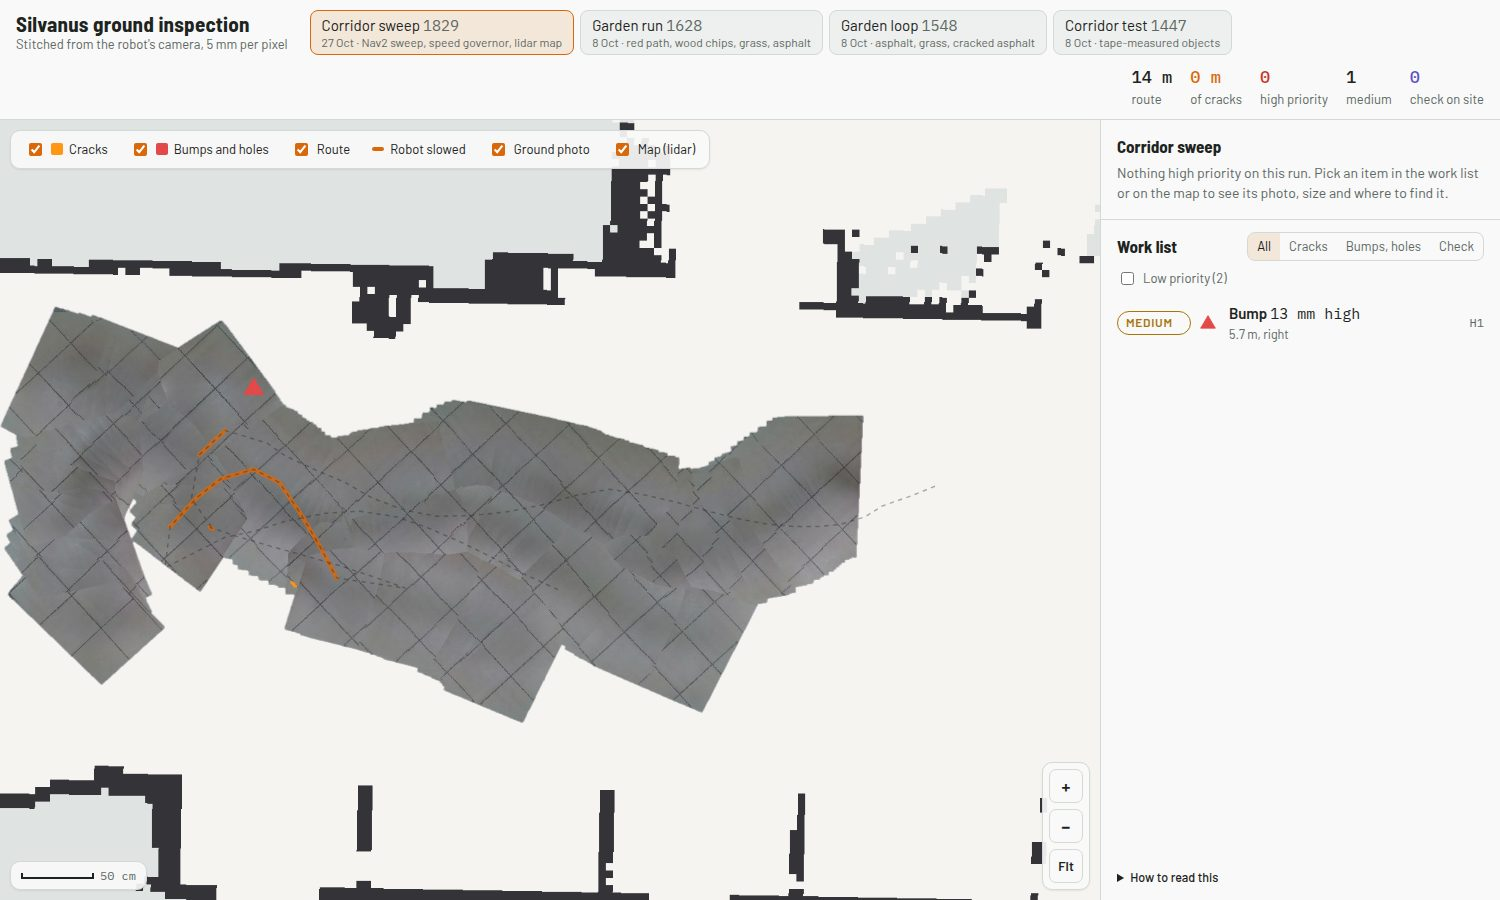
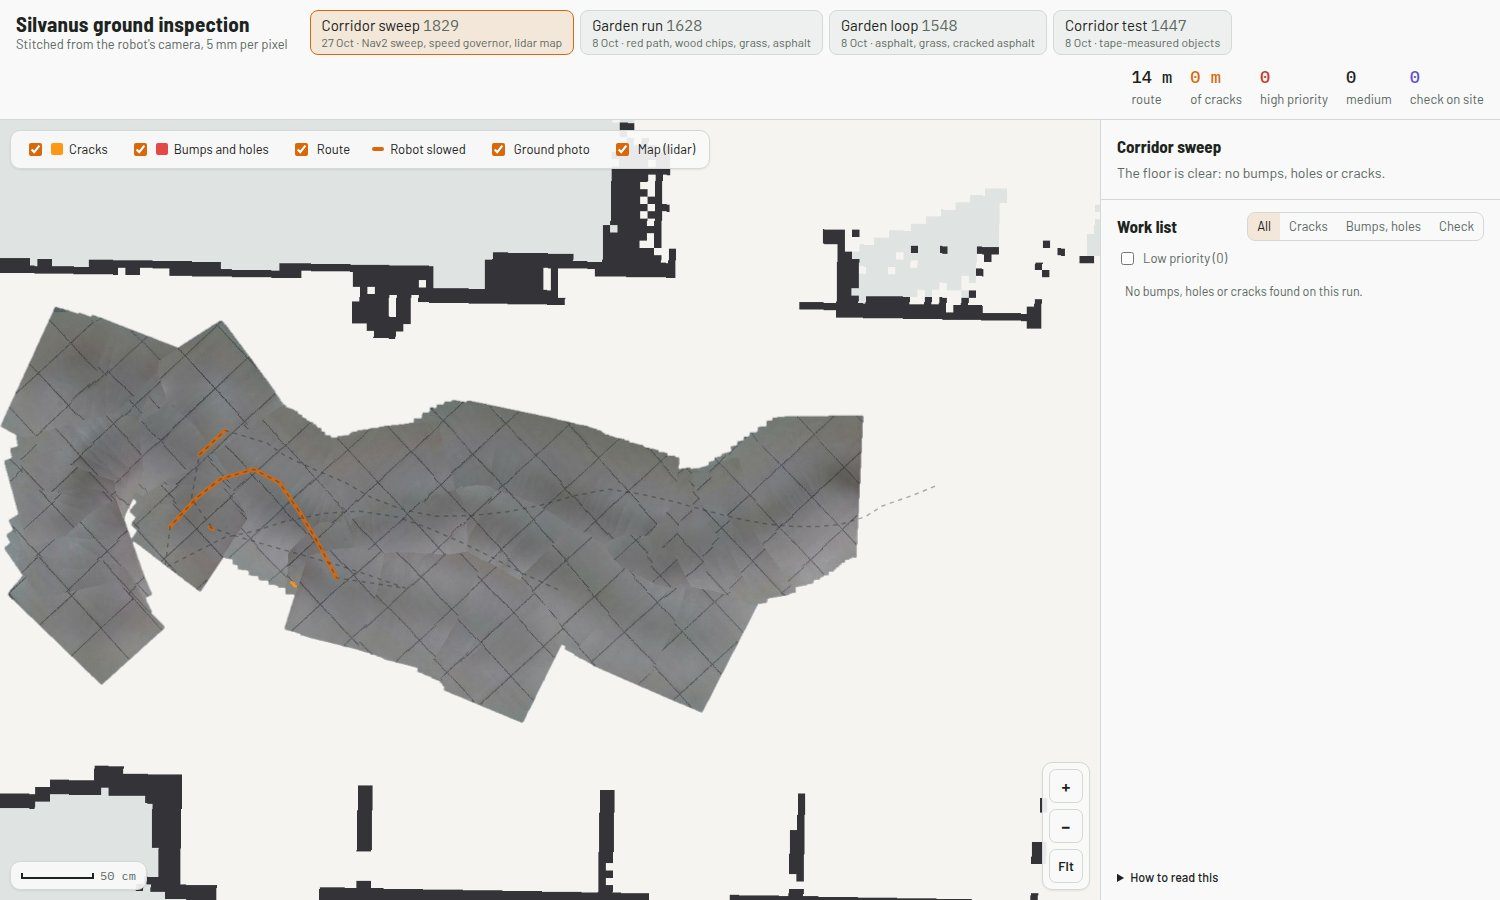
Count depth hazards only where the colour camera sees them
The outer band of the depth image reads a flat floor 5-12 mm high. On the
corridor sweep that gave three false 10-13 mm bumps on plain tile, and the
speed governor slowed for them six times. The live node and the offline map
now keep a hazard only inside the colour view, which still covers the wheel
tracks, so every hazard has a photo. The sweep page now lists nothing.

Changed region(s): [[0.736, 0.1867, 0.9813, 0.3733], [0.1533, 0.4044, 0.184, 0.4356]]

diff --git a/tools/inspection_viewer/index.html b/tools/inspection_viewer/index.html
@@ -386,7 +386,8 @@ function renderList() {
       <svg class="glyph" viewBox="-11 -11 22 22" aria-hidden="true">${glyph(h)}</svg>
       <span class="what"><b>${title(h)}</b> <span class="num">${size(h)}</span><span class="loc">${h.route_m} m${h.side === "on the path" ? ", wheel track" : `, ${h.side}`}${h.surface ? " · " + h.surface : ""}</span></span>
       <span class="id">${h.id}</span></button></li>`).join("")
-    : `<li class="more">Nothing in this view. Switch on low priority to see the small ones.</li>`;
+    : D.hazards.length ? `<li class="more">Nothing in this view. Switch on low priority to see the small ones.</li>`
+    : `<li class="more">No bumps, holes or cracks found on this run.</li>`;
   $("#list").querySelectorAll(".row").forEach(b => b.onclick = () => select(b.dataset.id, true));
 }
 function renderDetail() {
@@ -394,8 +395,9 @@ function renderDetail() {
   if (!h) {
     const top = D.hazards.filter(x => x.priority === "high").length;
     $("#detail").innerHTML = `<div class="empty"><b>${RUNS.find(r => r.id === run).name}</b>
-      ${top ? `${top} high-priority item${top > 1 ? "s" : ""} on this run.` : "Nothing high priority on this run."}
-      Pick an item in the work list or on the map to see its photo, size and where to find it.</div>`;
+      ${!D.hazards.length ? "The floor is clear: no bumps, holes or cracks."
+        : `${top ? `${top} high-priority item${top > 1 ? "s" : ""} on this run.` : "Nothing high priority on this run."}
+      Pick an item in the work list or on the map to see its photo, size and where to find it.`}</div>`;
     return;
   }
   const photo = h.crop ? `<img src="runs/${run}/${h.crop}${D.live ? "?t=" + D.stamp : ""}" alt="${title(h)} ${h.id}">`

diff --git a/ground_demo/ground_hazard_node.py b/ground_demo/ground_hazard_node.py
@@ -53,7 +53,7 @@ from vision_msgs.msg import (BoundingBox3D, Detection3D, Detection3DArray,
                              ObjectHypothesisWithPose)
 from visualization_msgs.msg import Marker, MarkerArray
 
-from ground_probe import (deproject, find_hazards, fit_ground_plane,
+from ground_probe import (deproject, find_hazards, fit_ground_plane, in_view,
                           plane_basis, plane_pose, refine_plane)
 
 
@@ -86,6 +86,12 @@ class GroundHazardNode(Node):
                                "/camera/camera/depth/image_rect_raw")
         self.declare_parameter("info_topic",
                                "/camera/camera/depth/camera_info")
+        # Hazards count only inside the colour camera's narrower view: the outer
+        # band of the depth image gives false 10-13 mm bumps on plain floor
+        # (ground_probe.in_view). Until this arrives, or with an empty string,
+        # the whole depth image is used.
+        self.declare_parameter("colour_info_topic",
+                               "/camera/camera/color/camera_info")
         # 15 mm: about three times the 4.5 mm RMS noise floor measured on flat
         # tile at 0.85 m. Below this a reading cannot be told from sensor noise.
         self.declare_parameter("threshold_mm", 15.0)
@@ -141,6 +147,7 @@ class GroundHazardNode(Node):
                 self.mask_ok = mask > 0
 
         self.k = None           # (fx, fy, ppx, ppy), filled by the info callback
+        self.colour = None      # ((fx, fy, ppx, ppy), (width, height)) of the colour camera
         self.frame_count = 0
         self.processed = 0
         self.rng = np.random.default_rng(0)
@@ -155,6 +162,9 @@ class GroundHazardNode(Node):
                                  self.on_info, qos_profile_sensor_data)
         self.create_subscription(Image, g("depth_topic"),
                                  self.on_depth, qos_profile_sensor_data)
+        if g("colour_info_topic"):
+            self.create_subscription(CameraInfo, g("colour_info_topic"),
+                                     self.on_colour_info, qos_profile_sensor_data)
 
         self.create_timer(5.0, self.report)
         self.get_logger().info(
@@ -169,6 +179,13 @@ class GroundHazardNode(Node):
             self.get_logger().info(
                 f"intrinsics fx={self.k[0]:.1f} fy={self.k[1]:.1f} "
                 f"ppx={self.k[2]:.1f} ppy={self.k[3]:.1f}")
+
+    def on_colour_info(self, msg):
+        if self.colour is None:
+            self.colour = ((msg.k[0], msg.k[4], msg.k[2], msg.k[5]), (msg.width, msg.height))
+            self.get_logger().info(
+                f"hazards only inside the colour view ({msg.width}x{msg.height}, "
+                f"fx={msg.k[0]:.1f})")
 
     def on_depth(self, msg):
         self.frame_count += 1
@@ -249,6 +266,10 @@ class GroundHazardNode(Node):
                                    thresh, self.min_area_cm2, fx, fy,
                                    max_height=self.max_size_mm / 1000.0)
             hazards = [h for h in hazards if h["peak_mm"] <= self.max_size_mm]
+            # the depth and colour imagers are parallel and 15 mm apart, about
+            # 10 px at this range, inside in_view's 20 px margin
+            if self.colour is not None:
+                hazards = [h for h in hazards if in_view(h["centroid"], *self.colour)]
 
         self.publish_detections(hazards, nrm, inlier_frac, header)
         self.publish_markers(hazards, nrm, header)

diff --git a/tools/analysis/hazard_map.py b/tools/analysis/hazard_map.py
@@ -169,13 +169,13 @@ def camera_pass(bag, t_start, path, T_bd, T_bc, seg):
     Kd = Kc = prev = col = None
     rng, n, last_crack = np.random.default_rng(0), 0, -9.0
     dets, unev, cracks, planes = [], [], {}, []
-    stats = dict(frames=0, skipped=0, crack_frames=0, crack_px=0, crack_kept=0)
+    stats = dict(frames=0, skipped=0, outside_colour=0, crack_frames=0, crack_px=0, crack_kept=0)
     while r.has_next():
         tp, data, st = r.read_next(); t = st * 1e-9 - t_start
         if tp == DINFO and Kd is None:
             m = deserialize_message(data, CameraInfo); Kd = (m.k[0], m.k[4], m.k[2], m.k[5])
         if tp == CINFO and Kc is None:
-            m = deserialize_message(data, CameraInfo); Kc = (m.k[0], m.k[4], m.k[2], m.k[5])
+            m = deserialize_message(data, CameraInfo); Kc = (m.k[0], m.k[4], m.k[2], m.k[5]); csize = (m.width, m.height)
         if tp == COLOR:
             col = data
         if tp != DEPTH or Kd is None:
@@ -210,6 +210,10 @@ def camera_pass(bag, t_start, path, T_bd, T_bc, seg):
         thresh = max(THRESH, K_ROUGH * u_mm / 1000.0)
         for h in gp.find_hazards(cloud, valid, resid, nrm, d, thresh, MIN_AREA, Kd[0], Kd[1], max_height=MAX_HEIGHT):
             if h["peak_mm"] > MAX_HEIGHT * 1000:
+                continue
+            # only where the colour camera sees it too: the depth image's outer band gives false bumps
+            if Kc is not None and not gp.in_view(T_cd[:3, :3] @ np.array(h["centroid"]) + T_cd[:3, 3], Kc, csize):
+                stats["outside_colour"] += 1
                 continue
             pb = (T_bd @ np.r_[h["centroid"], 1.0])[:3]
             wx, wy = to_world(path, t, pb)

diff --git a/ground_demo/ground_probe.py b/ground_demo/ground_probe.py
@@ -243,6 +243,27 @@ def find_hazards(cloud, valid, resid, nrm, d, thresh, min_area_cm2, fx, fy,
     return out
 
 
+def in_view(p, k, size, margin=20.0):
+    """True if the point p (m, camera frame) lands inside an image with
+    intrinsics k = (fx, fy, ppx, ppy) and size (width, height), at least
+    `margin` pixels in from its edge.
+
+    Depth hazards count only where the colour camera also sees them. The depth
+    view is wider (90 x 59 degrees against 56 x 43 for colour) and its outer
+    band is where the depth is worst: on the corridor sweep of 2026-10-27 the
+    same 10-13 mm "bumps" came back at the same corner pixels from different
+    places on a plain floor, and the speed governor slowed for them six times.
+    With the arm in Pose B the colour view still reaches 0.42 m to each side,
+    past the outer edge of the tyres at 0.35 m, so nothing the wheels can touch
+    is lost, and every hazard that is kept has a photo.
+    """
+    x, y, z = p
+    if z <= 0:
+        return False
+    u, v = k[0] * x / z + k[2], k[1] * y / z + k[3]
+    return margin <= u <= size[0] - margin and margin <= v <= size[1] - margin
+
+
 # --------------------------------------------------------------------------
 # rendering
 # --------------------------------------------------------------------------

diff --git a/docs/PROGRESS.md b/docs/PROGRESS.md
@@ -330,8 +330,19 @@ hovered) and its position by up to 10 cm. Now:
   skid-steer robot turning on the spot shakes by itself. The tape-measured run 1447 is unchanged (block
   1.88 and wooden block 0.81 felt, foam strips not)
 
-The one item left is a 13 mm bump the wheels felt at 0.23 m/s (jolt 0.77, just over the 0.75 limit), seen
-only at the edge of the depth image, with no colour photo: worth a look on site.
+- a depth hazard counts only where the colour camera sees it too (`ground_probe.in_view`, in the live
+  node and offline). The page still had three 10-13 mm "bumps" with no photo, and they were what the
+  governor slowed the robot for, six times, on that run. All three sat in the outer band of the depth
+  image (90° wide against 56° for colour), two in its top right corner and one at its left edge, where a
+  flat floor reads 5-12 mm high; the colour camera saw plain tile. One was "felt" only because a wheel
+  crossed that spot during a 0.77 jolt, just over the 0.75 limit. The colour view still reaches 0.42 m
+  to each side, past the outer edge of the tyres at 0.35 m. Replayed through the live node the sweep now
+  gives no slow-downs, and the tape-measured run keeps its five objects, felt as before (the foam block
+  slows the robot and is felt at 1.81 m/s²); what it loses there are things 0.6-0.7 m beside the path,
+  mostly the table legs. Outdoors about half the items on the 1548 and 1628 pages were seen only in that band.
+
+The page of this run now lists nothing: 0 m of cracks, no bumps or holes. The orange stretch is where the
+governor slowed the robot during the run, for those three false bumps.
 
 ![inspection page of the sweep](media/inspection_sweep_1829.jpg)
 

diff --git a/ground_demo/BRANCH_NOTES.md b/ground_demo/BRANCH_NOTES.md
@@ -60,6 +60,14 @@ Its edge produces flying pixels that were read as ~100 mm bumps and false holes.
 `robot_mask_d435_gripper.png` (black = robot, 15 px margin) is applied by the node;
 it was made from pixels with no depth in more than 80 % of 913 frames from 4 bags.
 
+**Hazards count only inside the colour camera's view** (`in_view`, 20 px in from
+the edge of the colour image). The depth image is wider, 90 x 59 degrees against
+56 x 43, and in its outer band a flat floor reads 5-12 mm high: on the corridor
+sweep of 2026-10-27 that gave three false 10-13 mm bumps on plain tile, and the
+speed governor slowed for them six times. The colour view still covers the wheel
+tracks. The node takes the colour intrinsics from `colour_info_topic` and uses the
+whole depth image until they arrive (or with an empty string).
+
 The residual field is **median filtered 5x5** before anything is measured.
 Depth noise is independent per pixel, so this removes most of it while leaving
 real steps intact. It takes the flat-ground noise floor from 4.2 mm to 1.1 mm
